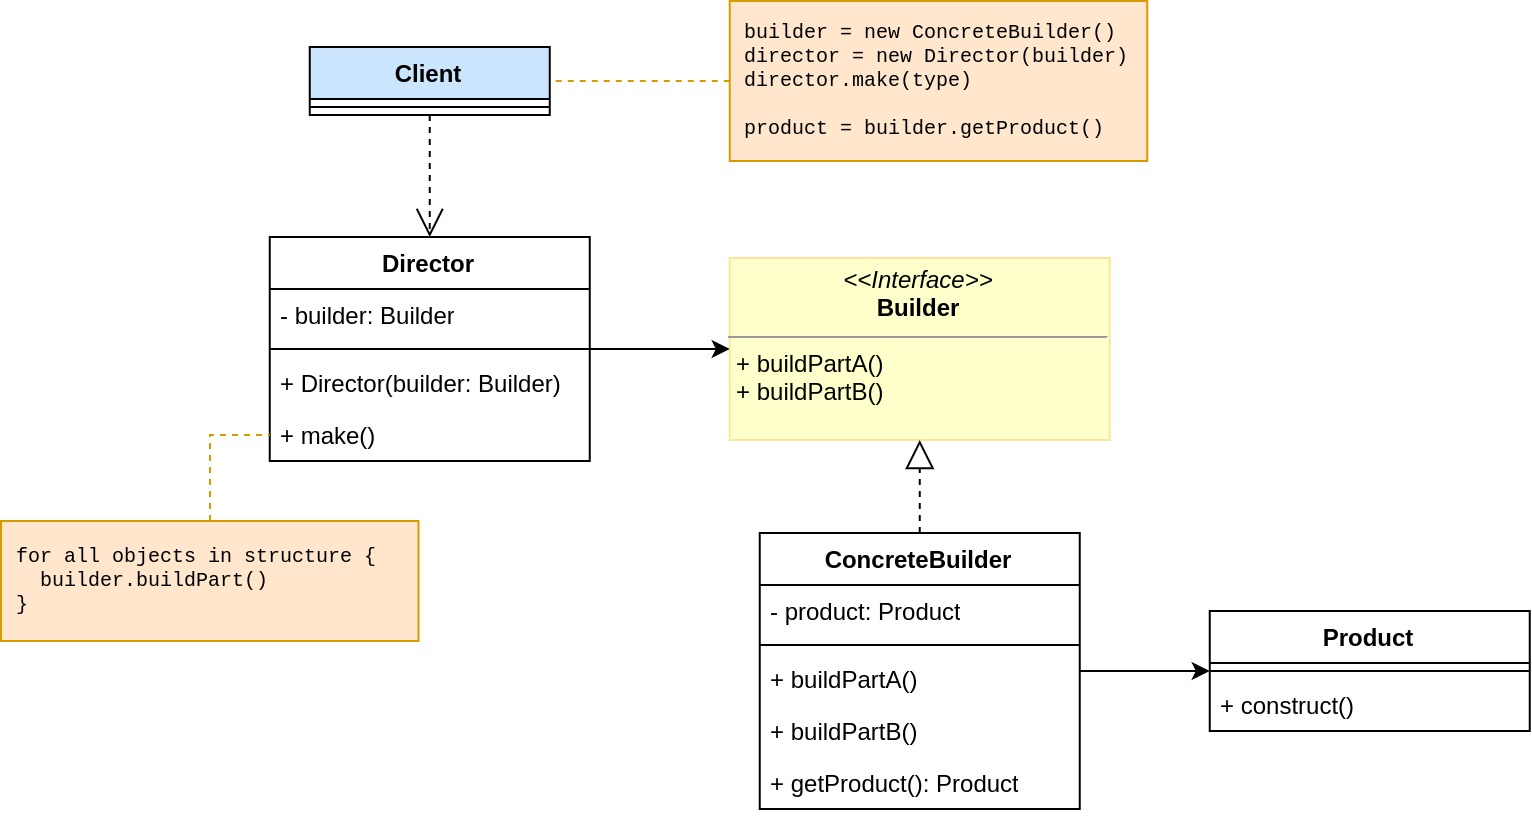
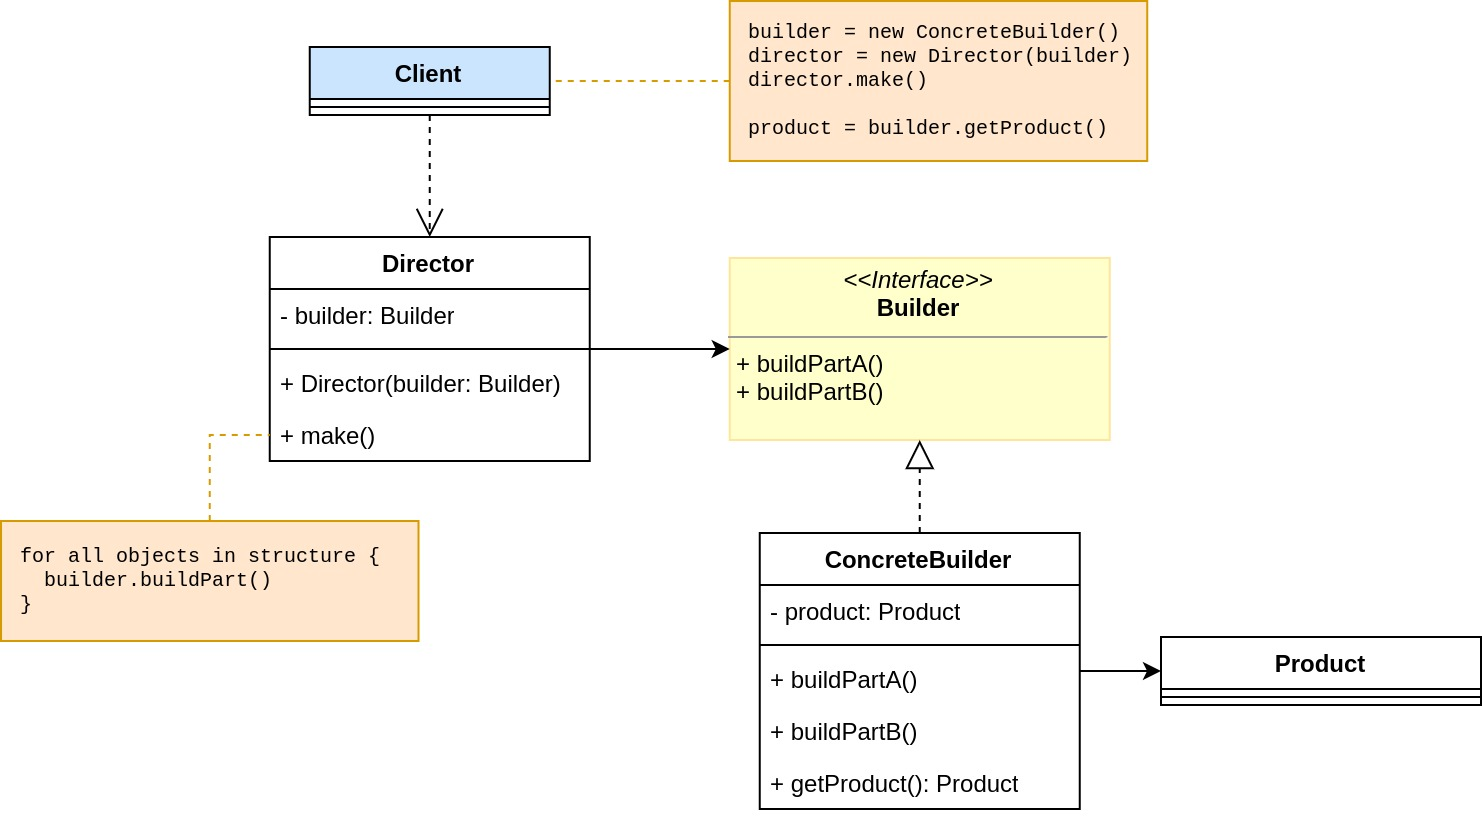
Add factory method design pattern and update builder image

diff --git a/README.md b/README.md
@@ -28,13 +28,13 @@ Creational design patterns are design patterns that deal with **object creation*
 
 The basic form of object creation could result in design problemsor added complexity to the design. Hard coding the actual instantiation is a pitfall and should be avoided if reuse and changeability are desired.
 
-| Name                      | Description                                                                                                                                                                        |
-|---------------------------|------------------------------------------------------------------------------------------------------------------------------------------------------------------------------------|
-| Abstract Factory          | The pattern encapsulates a group of individual concrete factory classes (as opposed to concrete factory methods which are derived in subclasses) which share common interfaces.    |
-| [Builder](/md/builder.md) | The Builder pattern can be used to ease the construction of a complex object from simple objects.                                                                                  |
-| Factory                   | The Factory pattern provides a way to use an instance as a object factory.                                                                                                         |
-| Prototype                 | The Prototype pattern is basically the creation of new instances through cloning existing instances.                                                                               |
-| Singleton                 | The Singleton pattern provides the possibility to control the number of instances (mostly one) that are allowed to be made. We also receive a global point of access to it (them). |
+| Name                                    | Description                                                                                                                                                                        |
+|-----------------------------------------|------------------------------------------------------------------------------------------------------------------------------------------------------------------------------------|
+| Abstract Factory                        | The pattern encapsulates a group of individual concrete factory classes (as opposed to concrete factory methods which are derived in subclasses) which share common interfaces.    |
+| [Builder](/md/builder.md)               | The Builder pattern can be used to ease the construction of a complex object from simple objects.                                                                                  |
+| [Factory Method](/md/factory-method.md) | The Factory pattern provides a way to use an instance as a object factory.                                                                                                         |
+| Prototype                               | The Prototype pattern is basically the creation of new instances through cloning existing instances.                                                                               |
+| Singleton                               | The Singleton pattern provides the possibility to control the number of instances (mostly one) that are allowed to be made. We also receive a global point of access to it (them). |
 
 ## Structural Design Patterns
 

diff --git a/md/factory-method.md b/md/factory-method.md
@@ -1,0 +1,28 @@
+# Factory Method
+
+The Factory pattern provides a way to use an instance as a object factory.
+
+The factory can return an instance of one of several possible classes (in a subclass hierarchy), depending on the data provided to it.
+
+## Diagram
+
+![Factory Method Design Pattern Diagram](/img/factory-method.jpg)
+
+## When to use?
+
+- When a class can't anticipate which kind of class of object it must create.
+- You want to localize the knowledge of which class gets created.
+- When you have classes that is derived from the same subclasses, or they may in fact be unrelated classes that just share the same interface. Either
+way, the methods in these class instances are the same and can be used interchangeably.
+- When you want to insulate the client from the actual type that is being
+instantiated.
+
+## Benefits
+
+- The client does not need to know every subclass of objects it must create. It only need one reference to the abstract class/interface and the factory
+object.
+- The factory encapsulate the creation of objects. This can be useful if the creation process is very complex.
+
+## Drawbacks
+
+- There is no way to change an implementing class without a recompile.

diff --git a/md/adapter.md b/md/adapter.md
@@ -1,6 +1,6 @@
 # Adapter
 
-The Adapter pattern is used to translate the interface of one class into another interface. This means that we can make classes work together that couldn't otherwise because of incompatible interfaces. 
+The Adapter pattern is used to translate the interface of one class into another interface. This means that we can make classes work together that couldn't otherwise because of incompatible interfaces.
 
 An object adapter relies on object aggregation.
 
